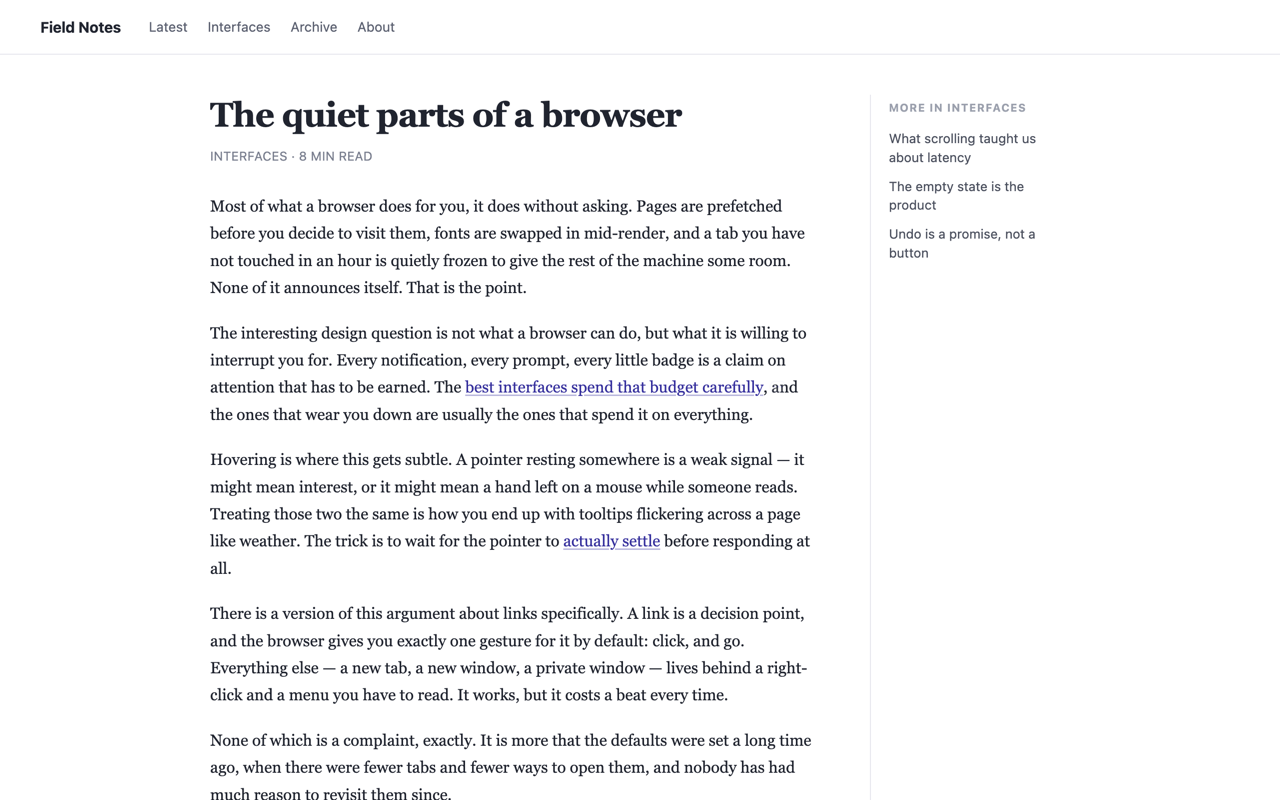
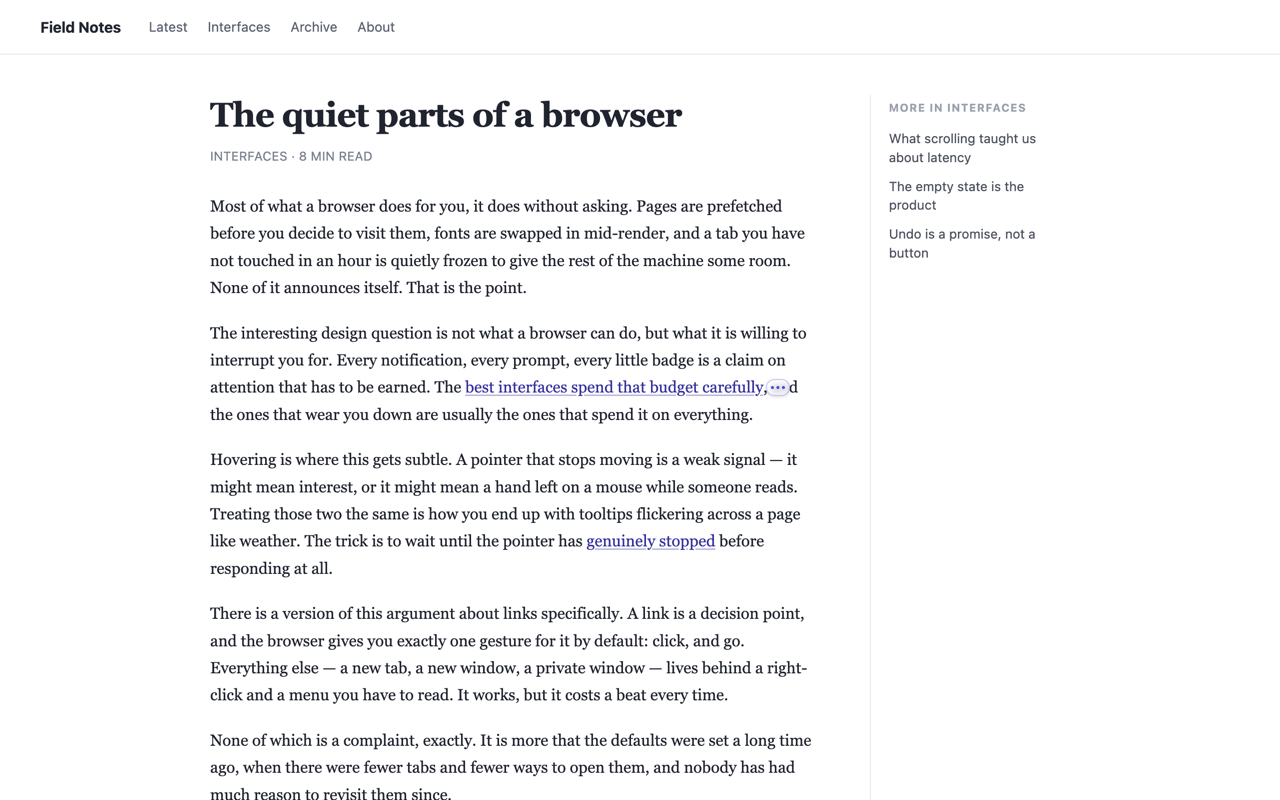
Rewrite the sample article's prose and make the capture verify itself
The article behind the store screenshots argued its point in exactly the words
the product no longer uses — "a pointer resting somewhere", "actually settle".
Rewritten around stopping rather than resting, so nothing in the listing images
contradicts the copy beside them.

Rebuilding exposed a worse problem: the capture had no idea whether it had
captured anything. It hovered, slept a second and shot the frame, so roughly two
runs in three produced a screenshot of a plain web page and reported success —
one of which I had already committed.

The race is that `Extensions.loadUnpacked` returns before the extension is
registered, and content scripts are injected at navigation, so a page that wins
that race has no content script and never will. Retrying the hover cannot help;
retrying the *load* can. It now polls for `hylink-root` and reloads the page if
the menu never appears, fails loudly instead of shipping a blank, and refuses
two byte-identical shots — which is what "the bar never opened" looks like.

Four consecutive clean runs, where the previous version managed one in three.

diff --git a/tools/build-store-shots.js b/tools/build-store-shots.js
@@ -134,6 +134,7 @@ class CDP {
   const cdp = new CDP(chrome);
   await cdp.send('Browser.getVersion');                       // waits for the pipe
   const { id: extId } = await cdp.send('Extensions.loadUnpacked', { path: ROOT });
+  await sleep(1500);            // registration is not instant, and see the reload below
   console.log('loaded ' + extId);
 
   /* 1 + 2 — the menu on an article ------------------------------------------------- */
@@ -148,15 +149,47 @@ class CDP {
   if (!rect) throw new Error('could not find the demo link on the article page');
   const y = (rect.top + rect.bottom) / 2;
 
-  await cdp.move(article.sessionId, rect.right - 30, y);      // hover the link
-  await sleep(1000);
+  /**
+   * Hovering once and sleeping is not enough: on a page that has only just loaded the
+   * content script may not have its listeners attached yet, and a missed `pointerover`
+   * never fires again while the pointer stays on the same link. So leave the link and
+   * come back until the menu actually exists — and fail loudly if it never does, since
+   * the failure mode otherwise is a screenshot of an ordinary web page.
+   */
+  const shown = () => cdp.eval(article.sessionId, "!!document.querySelector('hylink-root')");
+  let ready = false;
+  for (let attempt = 0; attempt < 4 && !ready; attempt++) {
+    // A reload, not just another hover. If the page won the race against the
+    // extension registering, it has no content script at all and never will —
+    // content scripts are injected at navigation, so only a fresh load can fix it.
+    if (attempt) {
+      await cdp.send('Page.reload', {}, article.sessionId);
+      await sleep(2500);
+    }
+    for (let i = 0; i < 3 && !ready; i++) {
+      // Leave the link and come back: a `pointerover` missed while the listeners were
+      // still attaching never fires again while the pointer stays on the same element.
+      await cdp.move(article.sessionId, 60, 720);              // somewhere blank
+      await sleep(200);
+      await cdp.move(article.sessionId, rect.right - 30, y);   // hover the link
+      await sleep(800);                                        // 220ms delay, then the fade
+      ready = await shown();
+    }
+  }
+  if (!ready) throw new Error('the menu never appeared — nothing to screenshot');
   await cdp.shoot(article.sessionId, 'screenshot-2-grip.png');
 
   // The menu lives in a closed shadow root, so there is nothing to query for its
   // position — the grip's placement is re-derived here the way content.js derives it.
   await cdp.move(article.sessionId, rect.right + GRIP_GAP + GRIP_W / 2, y);
-  await sleep(1000);
+  await sleep(1200);
   await cdp.shoot(article.sessionId, 'screenshot-1-actions.png');
+  // The bar is far bigger than the grip, so two identical files mean the pointer
+  // missed the capsule and both shots caught the same state.
+  if (fs.readFileSync(path.join(OUT, 'screenshot-1-actions.png'))
+        .equals(fs.readFileSync(path.join(OUT, 'screenshot-2-grip.png')))) {
+    throw new Error('the action bar never opened — both shots are the same image');
+  }
 
   /* 3 — the settings page ---------------------------------------------------------- */
   console.log('settings page + promo tile:');

diff --git a/tools/shots/article.html b/tools/shots/article.html
@@ -60,11 +60,11 @@
       and the ones that wear you down are usually the ones that spend it on everything.
     </p>
     <p>
-      Hovering is where this gets subtle. A pointer resting somewhere is a weak signal —
+      Hovering is where this gets subtle. A pointer that stops moving is a weak signal —
       it might mean interest, or it might mean a hand left on a mouse while someone reads.
       Treating those two the same is how you end up with tooltips flickering across a page
-      like weather. The trick is to wait for the pointer to
-      <a href="https://example.com/reading/settling-time">actually settle</a> before
+      like weather. The trick is to wait until the pointer has
+      <a href="https://example.com/reading/holding-still">genuinely stopped</a> before
       responding at all.
     </p>
     <p>

diff --git a/tasks/lessons.md b/tasks/lessons.md
@@ -107,3 +107,17 @@ double quotes do not protect backticks — only single quotes do.
 **How to apply:** write any commit message containing backticks, `$`, or `!` to a
 file and use `git commit -F`, or a quoted heredoc (`<<'EOF'`). Never rely on
 double-quoted `-m` for a message with code spans in it.
+
+## A screenshot script that cannot fail will happily ship a blank
+
+`build-store-shots.js` hovered a link, slept a second and captured — and about two
+runs in three it captured an ordinary web page with no menu on it, reporting success.
+The cause was a race: `Extensions.loadUnpacked` returns before the extension is
+registered, and content scripts are injected *at navigation*, so a page that wins that
+race has no content script at all and no amount of further hovering will produce one.
+Only a reload fixes it.
+
+**How to apply:** any capture step needs a readiness assertion tied to the thing being
+captured — here, polling for `hylink-root` and throwing if it never appears, plus a
+check that the two states are not byte-identical. And when a retry is meant to recover
+from a missing injection, retry the *navigation*, not the interaction.
